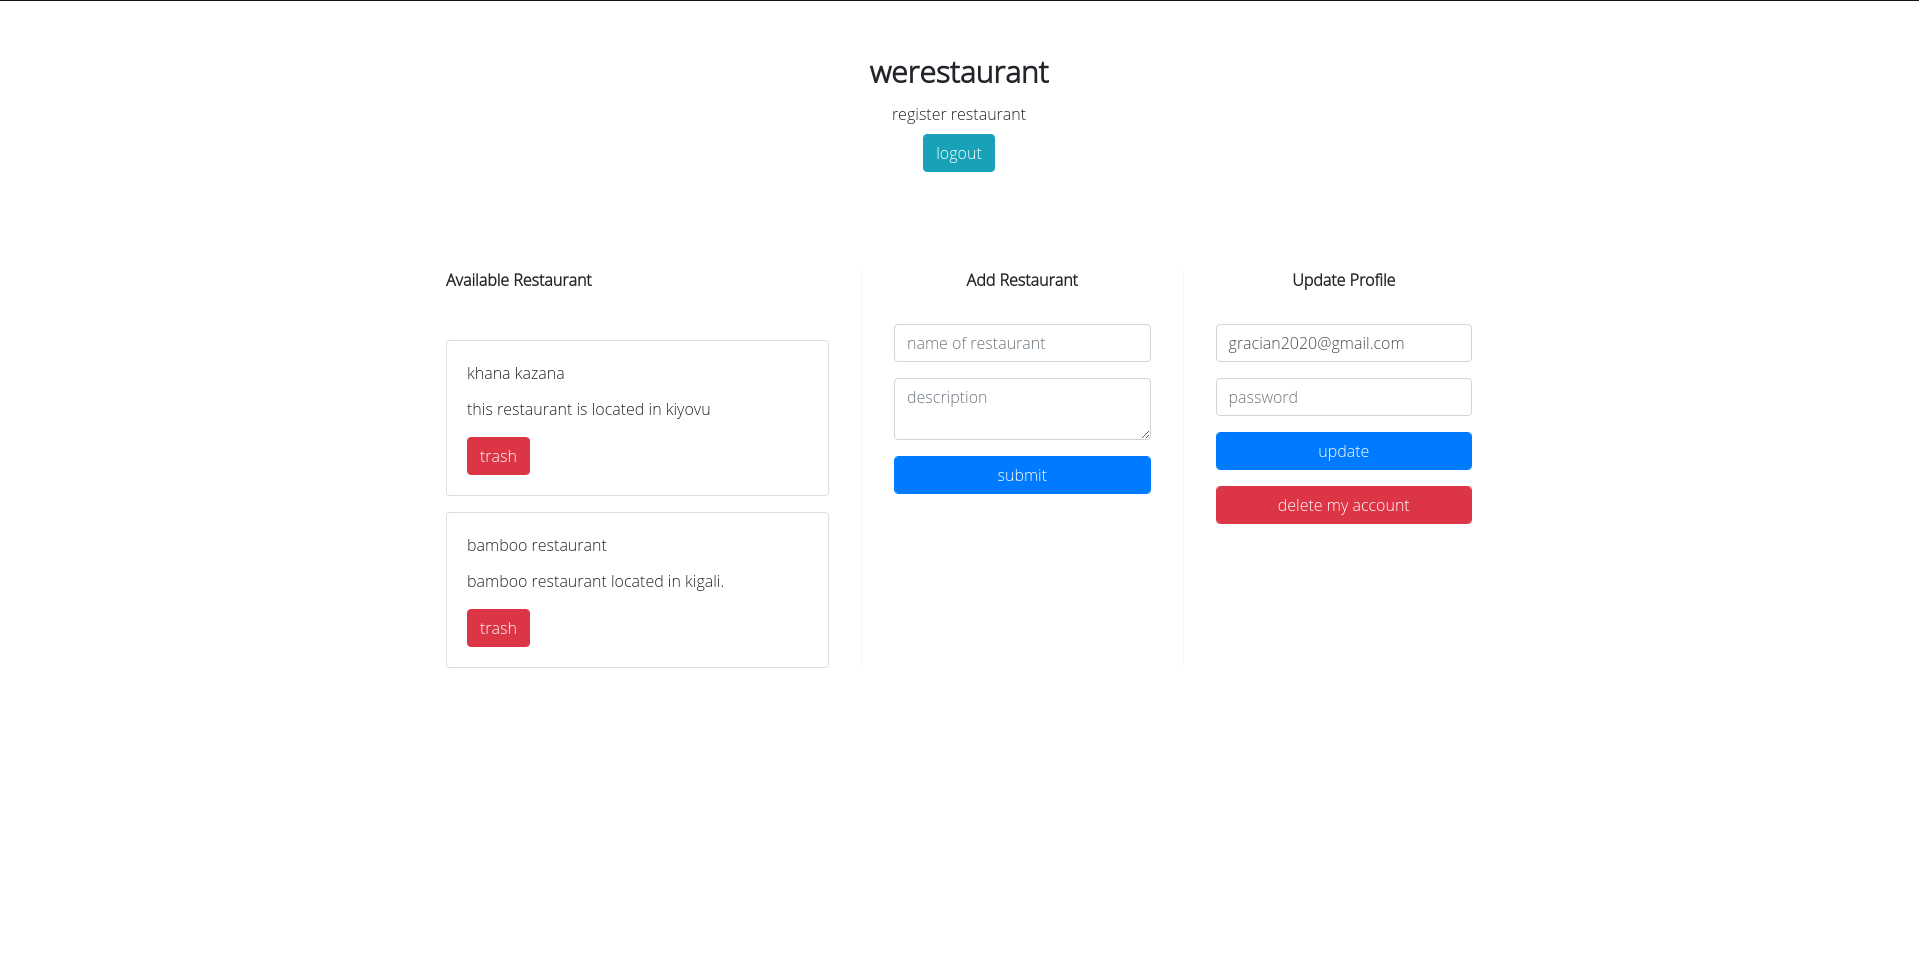
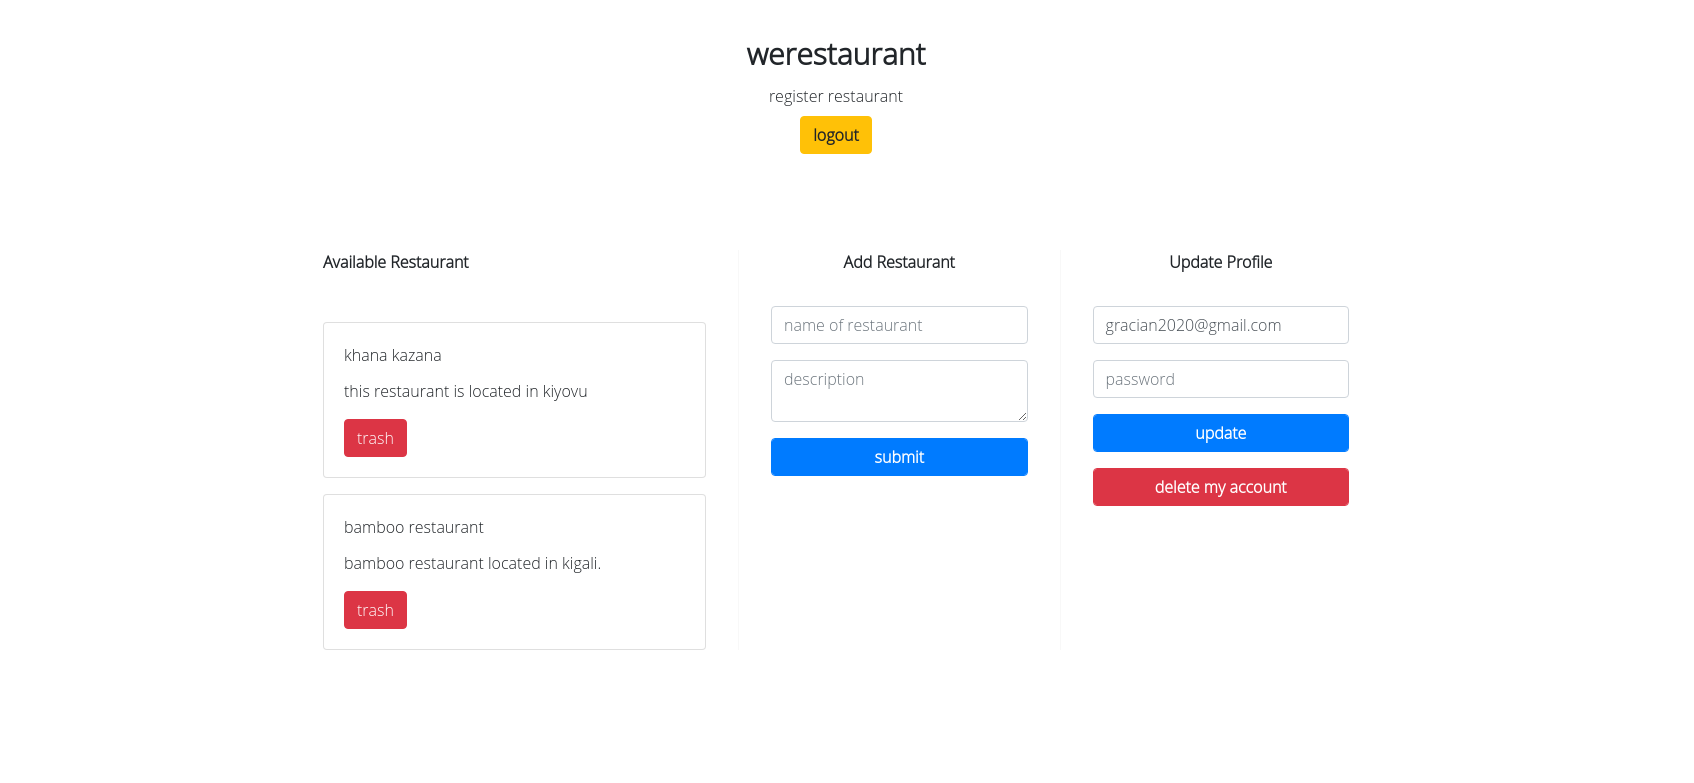
readme modified

diff --git a/src/pages/restaurant.html b/src/pages/restaurant.html
@@ -17,7 +17,7 @@
                     <div class="mt-5 mb-5 text-center">
                         <div class="font-weight-bold app-name">werestaurant</div>
                       <div class="mt-2">register restaurant</div>
-                      <button type="button" class="btn btn-info mt-2 logout">logout</button>
+                      <button type="button" class="btn btn-warning mt-2 logout font-weight-bold">logout</button>
                    </div>
                 </div>
                 <div class="d-flex flex-row justify-content-between mt-5 rest-container">
@@ -38,7 +38,7 @@
                                   <textarea name="description" name="description" placeholder="description" class="form-control"></textarea>
                               </div>
                               <div class="form-group">
-                                  <input type="submit" value="submit" class="btn btn-primary form-control">
+                                  <input type="submit" value="submit" class="btn btn-primary form-control font-weight-bold">
                               </div>
                           </form>
                       </div>
@@ -54,10 +54,10 @@
                                 <input type="password" name="password" class="form-control" placeholder="password">
                             </div>
                             <div class="form-group">
-                                <input type="submit" value="update" class="btn btn-primary form-control">
+                                <input type="submit" value="update" class="btn btn-primary form-control font-weight-bold">
                             </div>
                             <div class="form-group">
-                                <button type="button" class="btn btn-danger form-control deleteAccount">delete my account</button>
+                                <button type="button" class="btn btn-danger form-control deleteAccount font-weight-bold">delete my account</button>
                             </div>
                         </form>
                     </div>

diff --git a/index.html b/index.html
@@ -29,10 +29,10 @@
                                 <input type="password" class="form-control" name="password" placeholder="password" value="">
                             </div>
                             <div class="form-group">
-                                <input type="submit" name="submit" value="login" class="btn btn-primary form-control">
+                                <input type="submit" name="submit" value="login" class="btn btn-primary form-control font-weight-bold">
                             </div>
                             <div class="form-group">
-                                <input type="button"  value="create account" class="btn btn-info form-control newAccount">
+                                <input type="button"  value="create account" class="btn btn-info form-control newAccount font-weight-bold">
                             </div>
                             <div class="form-group">
                                 <input type="button"  value="login with google" class="btn btn-danger form-control font-weight-bold text-capitalize" onclick="signInWithGoogle()">
